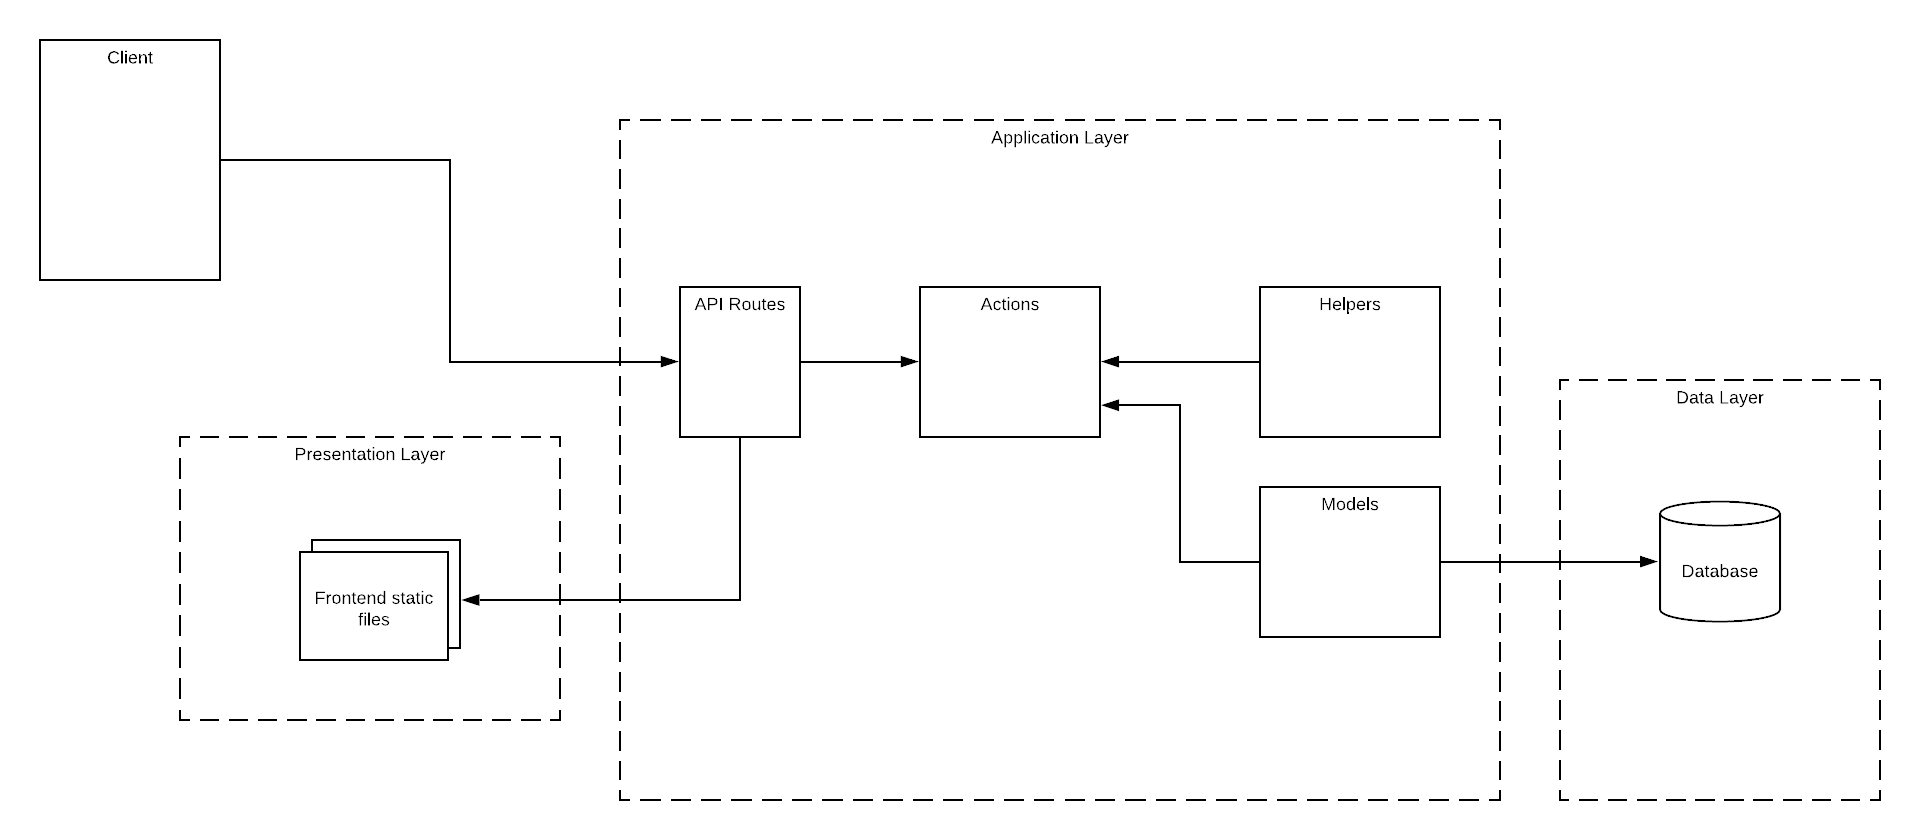
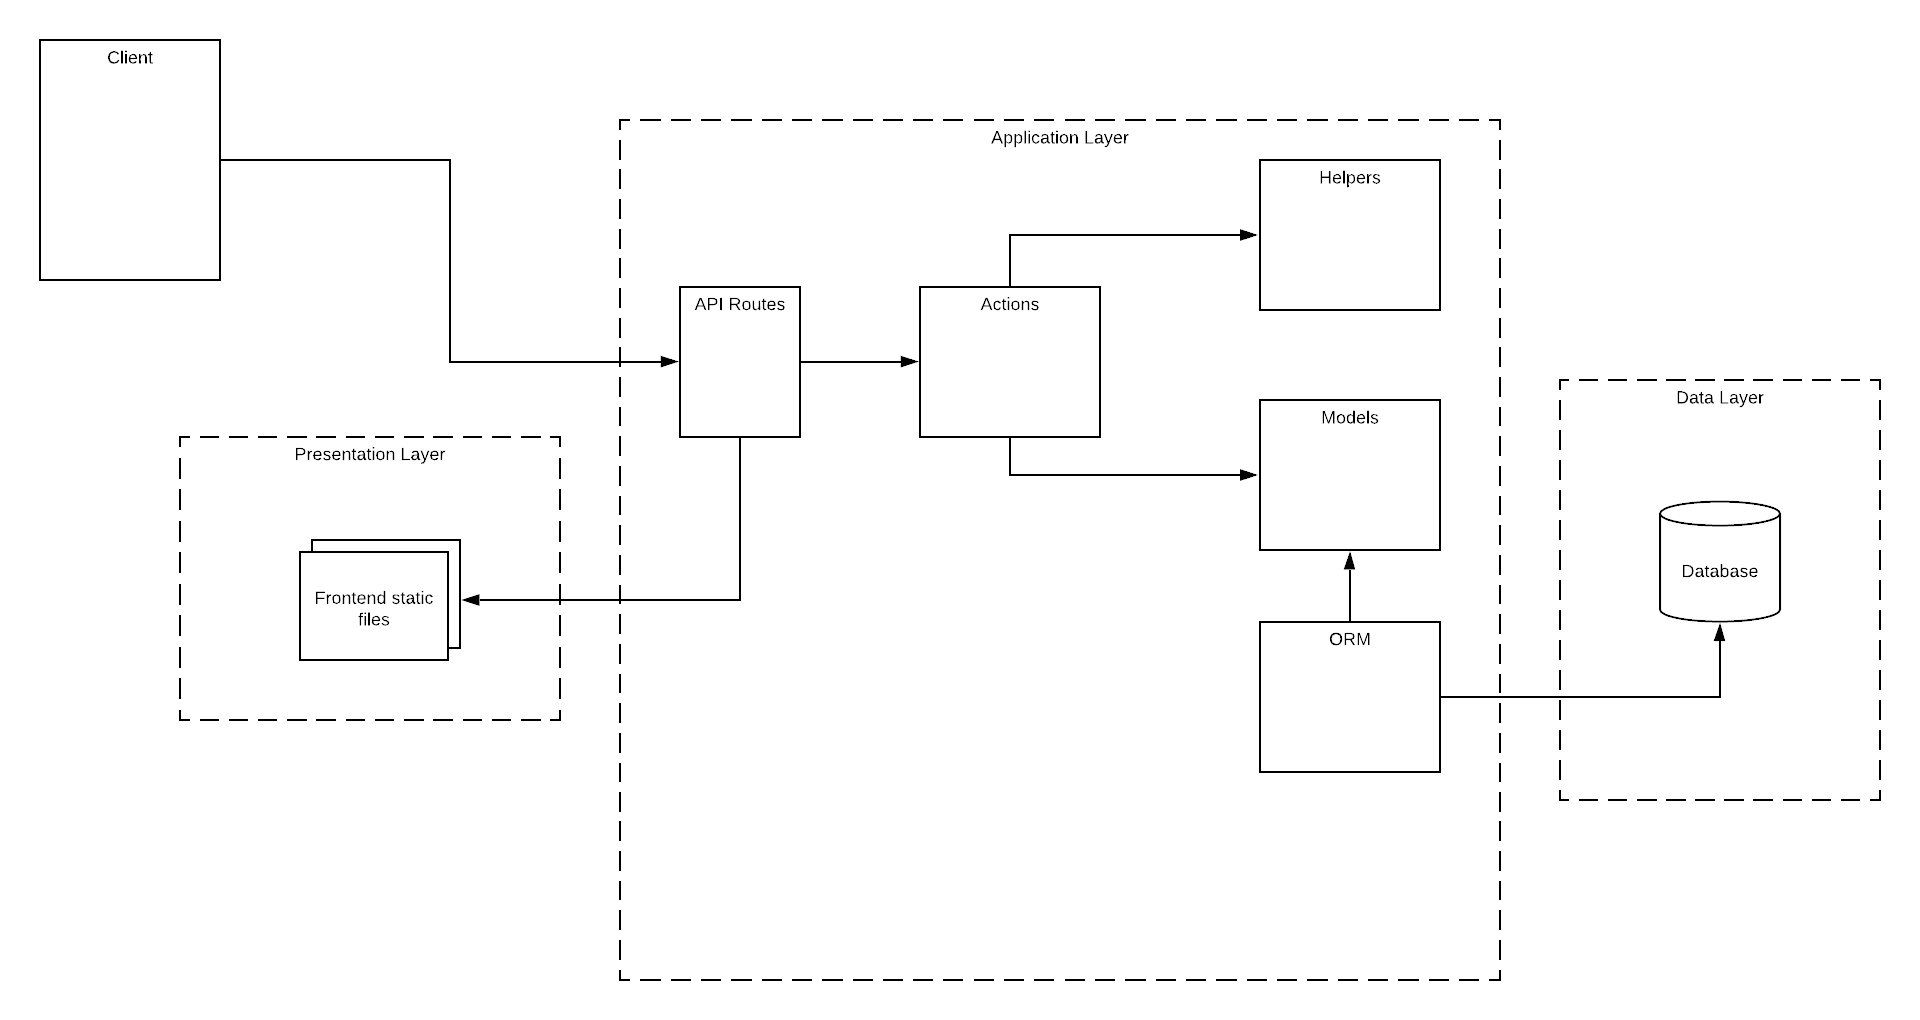
Backend documentation updated

diff --git a/app/public/backend/main.html b/app/public/backend/main.html
@@ -62,7 +62,7 @@
 			<td class="tg-0lax">893291</td>
 			<td class="tg-0lax">arnab.dey@mail.polimi.it</td>
 		</tr>
-		<tr>
+		<tr style="color:#FF0000";>
 			<td class="tg-0lax">2</td>
 			<td class="tg-0lax">Frontend developer</td>
 			<td class="tg-0lax">Julian</td>
@@ -144,9 +144,11 @@
 					<b>Models:</b>
 					<span>Where data objects used by our ORM and the application are defined, they will be used and
 						modified by
-						the action component. <br>Also it is in charge of applying the changes of the data objects to
-						the
-						Database</span>
+						the action component.</span>
+				</li>
+				<li>
+					<b>ORM:</b>
+					<span>Where our Object-relational mapping is defined and all the database settings are set in order to establish the connection, it is in charge to apply all the changes from the data objects ocurred in the application into the database.</span>
 				</li>
 			</ul>
 		</li>
@@ -155,7 +157,7 @@
 			<ul>
 				<li>
 					<b>Database:</b>
-					<span>Our PostgreSQL database where all the data is stored. Accessed only by the Model component of
+					<span>Our PostgreSQL database where all the data is stored. Accessed only by the ORM component of
 						the
 						Application Layer.</span>
 				</li>
@@ -326,7 +328,7 @@
 		<li>Arnab worked on front end design and development(60%), front end documentation (20%) and usability (20% of
 			the time)</li>
 		<li>Julian worked on front end development (90%) and on the database structure (10% of the time )</li>
-		<li>Víctor worked on the back end development (80%), back end documentation (10%) and fron end development (10%
+		<li>Víctor worked on the back end development (80%), back end documentation (10%) and front end development (10%
 			of the time)</li>
 	</ul>
 	<h3>Analysis of existing API</h3>
@@ -345,7 +347,7 @@
 	<p>What was the most important thing all the members have learned while developing this part of the project, what
 		questions remained unanswered, how you will use what you've learned in your everyday life? Examples:</p>
 	<ul>
-		<li>Foo learned to write SQL queries and Javascript but wanted to know more about caching, he's probably going
+		<li style="color:#FF0000";>Foo learned to write SQL queries and Javascript but wanted to know more about caching, he's probably going
 			to create his own startup with what she has learned</li>
 		<li>Arnab learned how to work with htm, css and bootstrap to developed an complete application, also learned
 			about nodejs and ajax. he would have liked to know more about promises for
